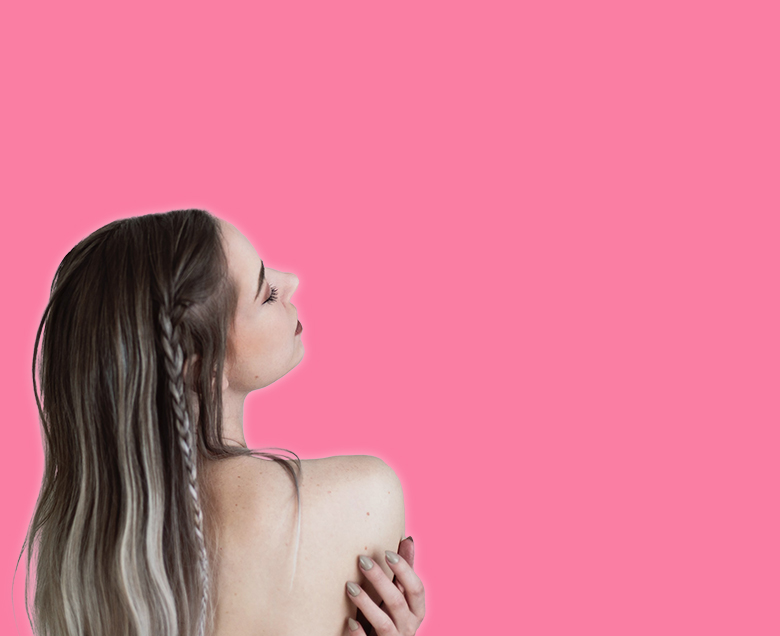
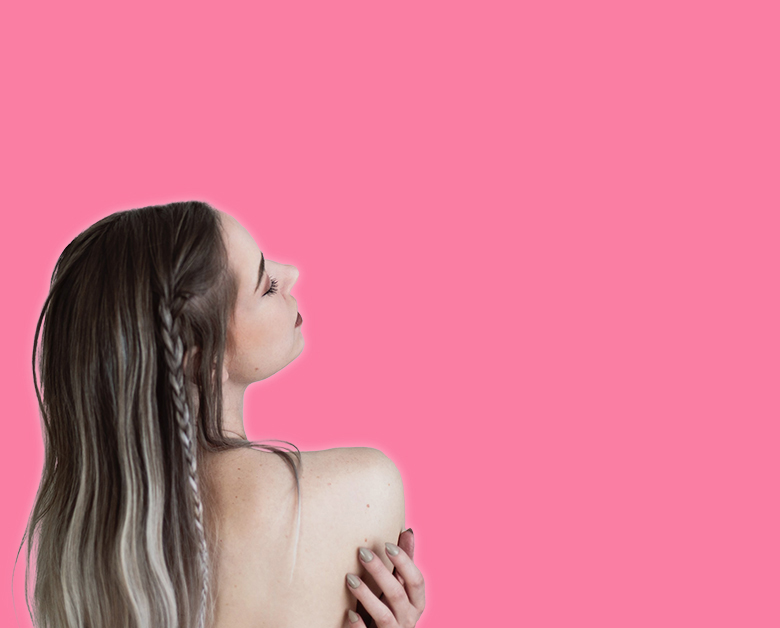
ヒーロービューSP版作成

diff --git a/assets/style/main.css b/assets/style/main.css
@@ -42,7 +42,7 @@ html {
 }
 
 body {
-    font-family: "Noto Serif JP", serif;
+    font-family: "Noto Sans JP", serif;
     font-size: 1.6rem;
     font-weight: 400;
     font-style: normal;
@@ -248,3 +248,111 @@ a {
 }
 
 /* ヘッダーここまで ----------------------------------------- */
+
+/* ヒーロービューここから ----------------------------------------- */
+.hero {
+    /*margin-top: 7rem;*/
+    width: 100%;
+    height: 31.4rem;
+    background-image: url(/assets/image/main_visual_sp.jpg);
+    background-size: cover;
+    background-position: center;
+    background-repeat: no-repeat;
+    color: #fff;
+    line-height: 1;
+}
+
+.hero__box-upper {
+    display: flex;
+    justify-content: space-between;
+}
+
+.hero__box-left {
+    text-align: center;
+    padding: 2rem 0 1.8rem 1.7rem;
+}
+
+.hero__text-zen {
+    font-size: 4.2rem;
+}
+
+.hero__text-kao {
+    font-size: 1.8rem;
+    margin-top: 0.8rem;
+}
+
+
+.hero__box-right {
+    width: 18.7rem;
+    height: 10.7rem;
+    display: flex;
+    justify-content: space-between;
+    align-items: flex-end;
+    background-color: rgba(255, 255, 255, 0.3);
+    box-shadow: 5px 5px 0px rgba(0, 0, 0, 0.15);
+    padding: 2.4rem 2.5rem;
+}
+
+.hero__text-box-a {
+    display: flex;
+    flex-direction: column;
+    row-gap: 1.2rem;
+}
+
+.hero__text-ima{
+    font-size: 1.3rem;
+    font-weight: 700;
+    color: #fa7da3;
+    background-color: #fff;
+    padding: 0.5rem;
+}
+
+.hero__text-syo {
+    font-size: 2.4rem;
+    font-weight: 700;
+}
+
+.hero__text-zero {
+    display: flex;
+    align-items: baseline;
+    font-size: 7.2rem;
+    font-weight: 700;
+    color: #fffd7a;
+}
+
+.hero__text-yen {
+    font-size: 3.3rem;
+    font-weight: 700;
+    color: #fffd7a;
+}
+
+.hero__box-lower {
+    margin: 0 0 0 auto;
+    padding: 0.8rem 2.6rem;
+}
+
+.hero__price-monthly {
+    font-size: 1.4rem;
+    text-align: right;
+    margin-bottom: 2.5rem;
+}
+
+.hero__price-monthly-small {
+    font-size: 0.9rem;
+
+}
+
+.hero__text-box-b {
+    display: flex;
+    flex-direction: column;
+    row-gap: 1.1rem;
+    align-items: flex-end;
+}
+
+.hero__waku {
+    width: 13.3rem;
+    font-size: 1.8rem;
+    text-align: center;
+    border: solid 1px #fff;
+    padding: 0.8rem;
+}

diff --git a/index.html b/index.html
@@ -43,14 +43,33 @@
 
         <!-- メインここから -->
         <main class="main">
-            <section class="hero">
-                <div class="hero__container">
-                    <div>
+            <div class="hero">
 
+                <div class="hero__box-upper">
+                    <div class="hero__box-left" >
+                        <p class="hero__text-zen">全身脱毛</p>
+                        <p class="hero__text-kao">（顔・VIO込）</p>
+                    </div>
+                    <div class="hero__box-right">
+                        <div class="hero__text-box-a" >
+                            <p class="hero__text-ima" >今だけ</p>
+                            <p class="hero__text-syo" >初月</p>
+                        </div>
+                        <p class="hero__text-zero">0<span class="hero__text-yen">円</span></p>
                     </div>
                 </div>
 
-            </section>
+                <div class="hero__box-lower">
+                    <p class="hero__price-monthly">2,480<span class="hero__price-monthly-small">円／月</span></p>
+
+                    <div class="hero__text-box-b">
+                        <p class="hero__waku">通い放題</p>
+                        <p class="hero__waku">追加料金なし</p>
+                        <p class="hero__waku">安心サポート</p>
+                    </div>
+                </div>
+
+            </div>
 
         </main>
         <!-- メインここまで -->
